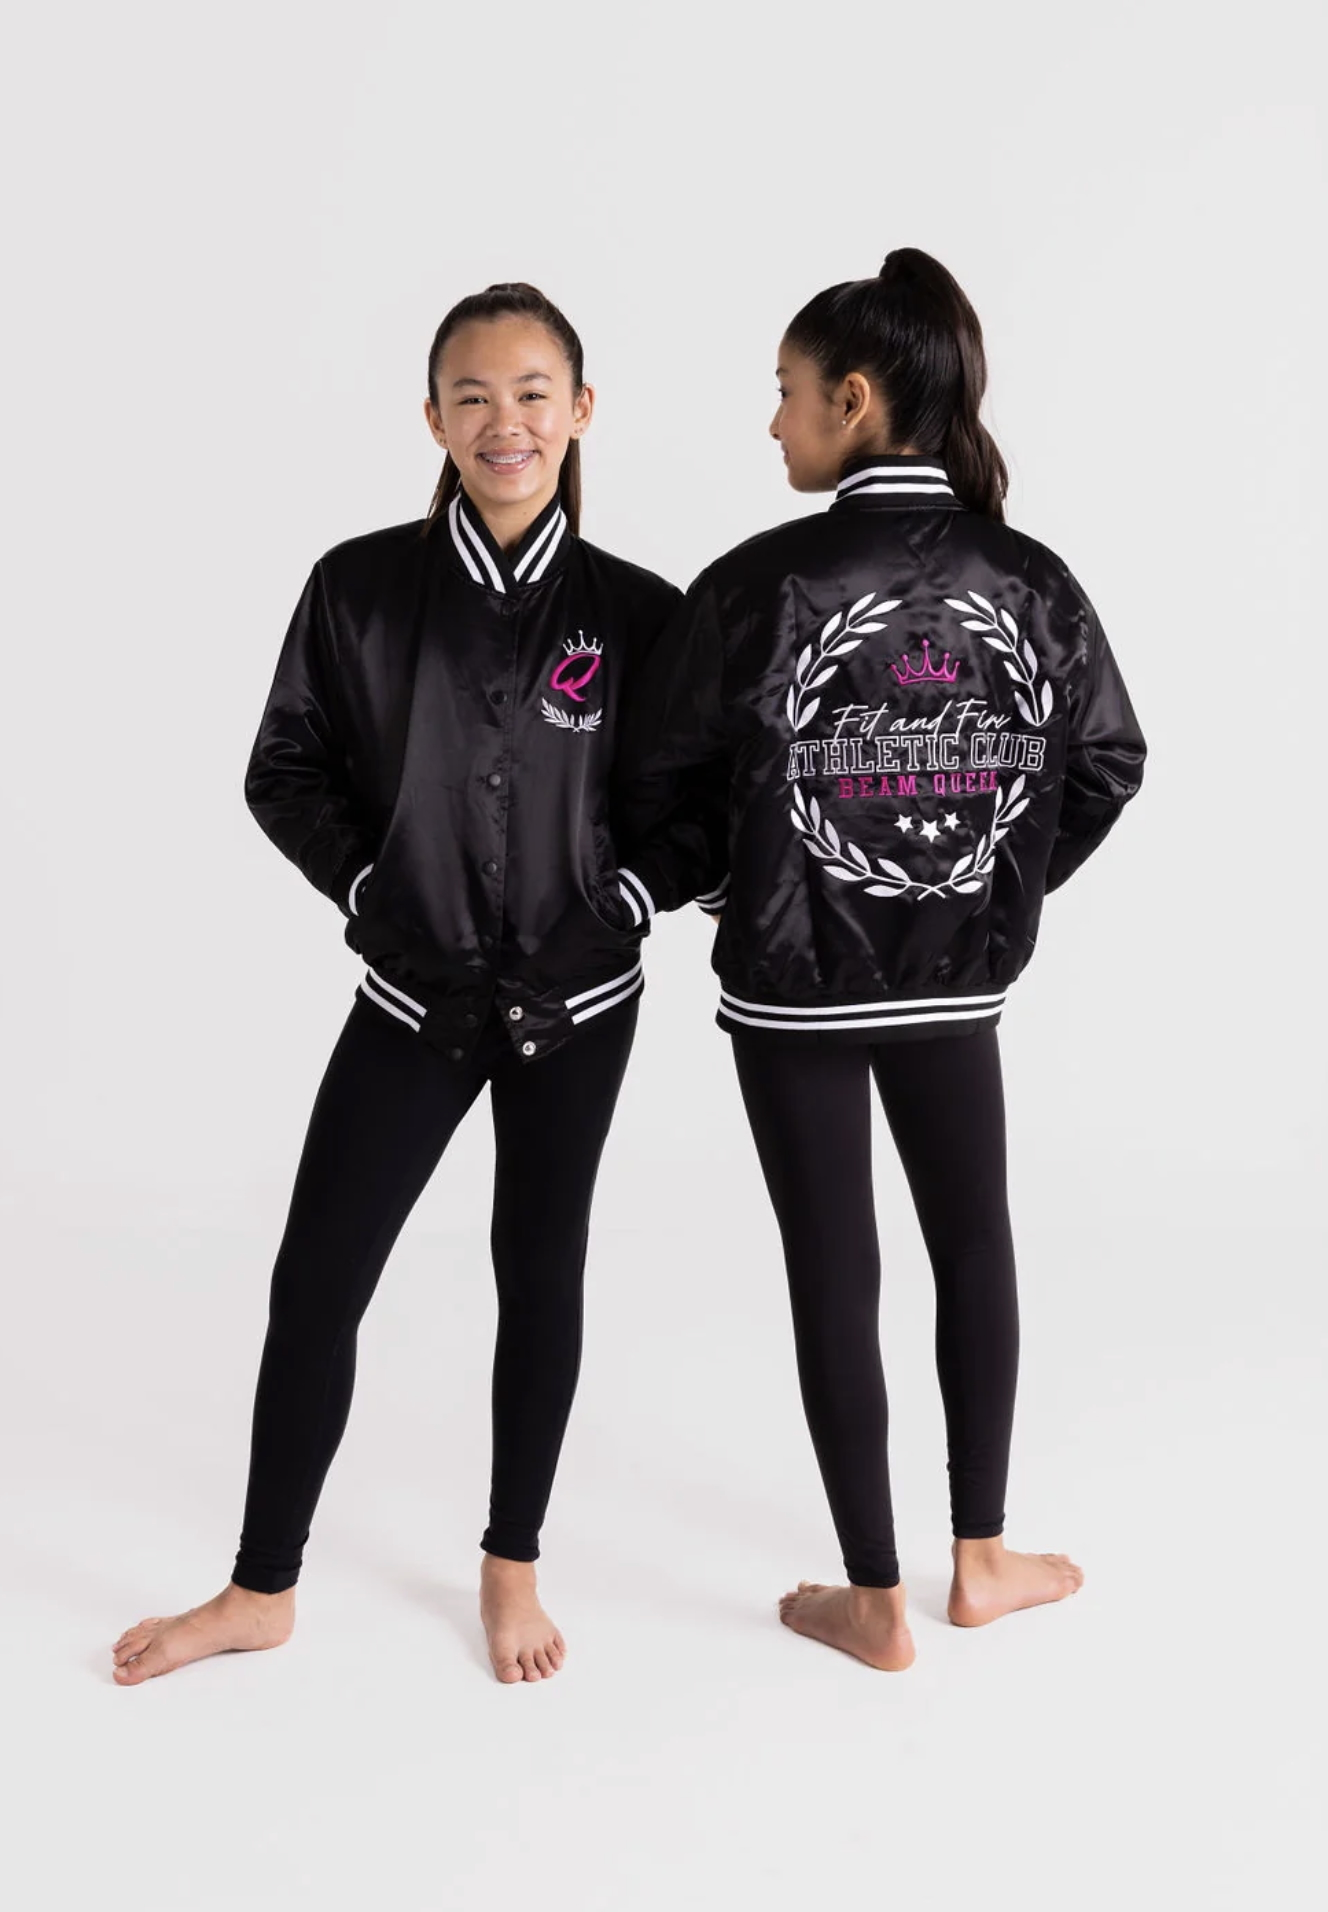
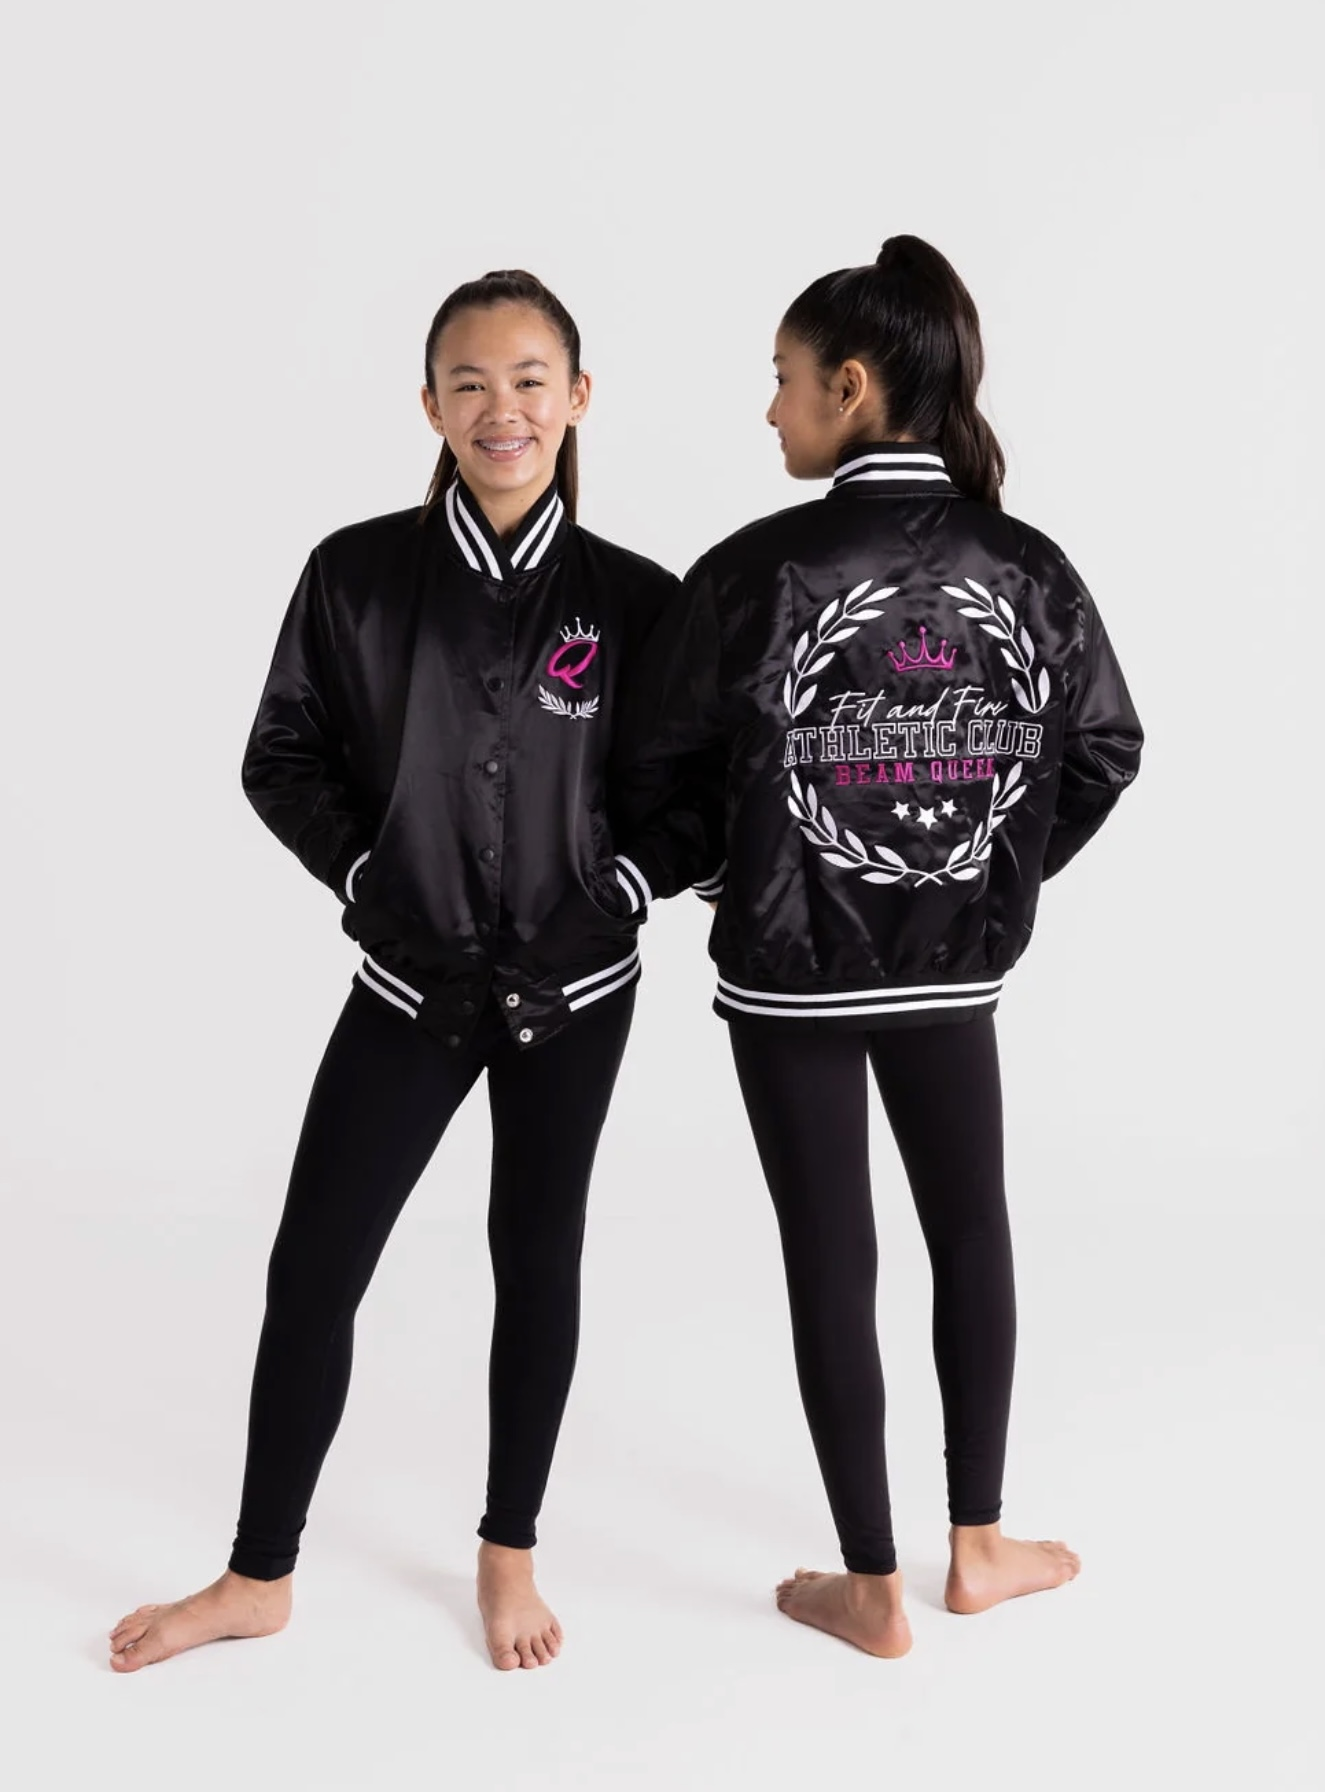
Updatw

diff --git a/assets/css/main.css b/assets/css/main.css
@@ -615,9 +615,9 @@ img {
   width: 64px;
   height: 64px;
   place-items: center;
-  border: 1px solid var(--accent);
+  border: 1px solid var(--ink);
   border-radius: 50%;
-  background: var(--accent);
+  background: transparent;
   color: var(--ink);
   font-size: 2rem;
   transition: background 180ms ease, border-color 180ms ease;

diff --git a/_pages/about.md b/_pages/about.md
@@ -3,11 +3,11 @@ layout: about
 title: "Hello, I’m Hannah."
 permalink: /about/
 description: Hannah Fogarty is a graphic designer in San Francisco, specializing in branding and packaging for consumable goods.
-photo: /images/crop_headshot.JPG
+photo: /images/headshot_2.jpg
 ---
 
 I’m a graphic designer in San Francisco, specializing in branding and packaging design for consumable goods.
 
 I love working with my clients to create something new in the world, matching handmade creativity with market research to communicate who you are and what you offer.
 
-Whether you’re shaping a new brand or giving an existing one a fresh direction, I’d love to hear what you have in mind.
+Whether you’re shaping a new brand or giving an existing one a fresh direction, I’d love to hear from you.

diff --git a/_projects/dippsterz.md b/_projects/dippsterz.md
@@ -24,4 +24,4 @@ gallery:
     wide: true
 ---
 
-Illustration and packaging work for Funky Mello’s Dippsterz snack trays, including the tray cases used for display.
+Illustration and packaging work for Funky Mello’s Dippsterz snack trays and display boxes.
